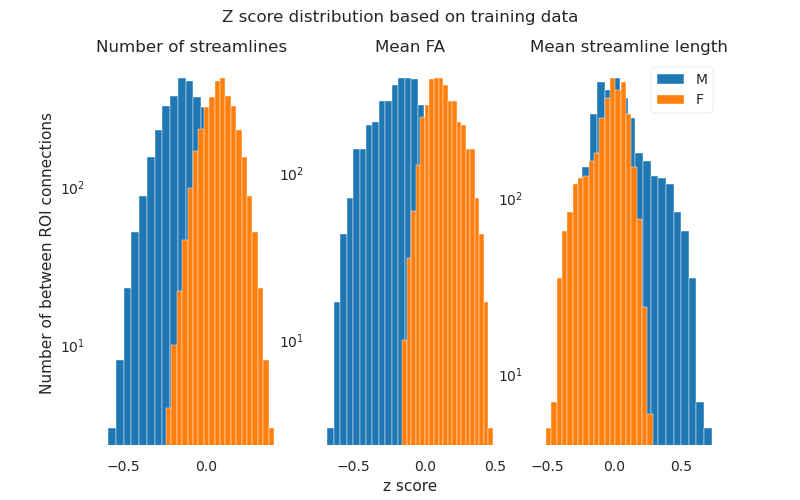
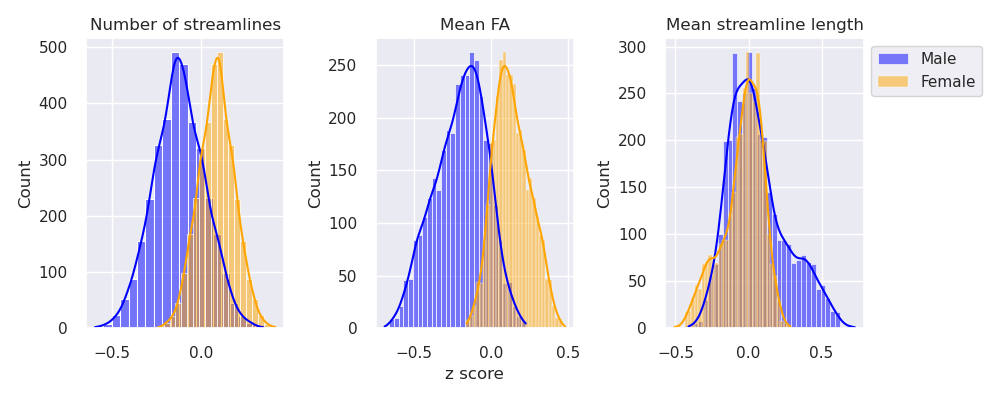
better visualization and improvement of results chapter

diff --git a/ms_thesis/Results.tex b/ms_thesis/Results.tex
@@ -2,7 +2,7 @@
 
 \begin{document}
 \chapter{Results}
-In this section, the quantitative and visualization results from the methods presented in the chapter \ref{chap:methods} will be presented. The first two sections will present results from preprocessing of the DWI images mentioned in \autoref{sec:connectome_generation} and subsequent connectivity matrices. The next sections will set to statistically describe the nature of the data as well as classification results based on the comprehensive classification parameters explained in \autoref{tab:classify_combo}.
+In this section, the quantitative and visualization results from the methods presented in the chapter \ref{chap:methods} will be presented. The first two sections will present results from preprocessing of the DWI images mentioned in \autoref{sec:Diffusionimgprepro} and extraction of connectivity matrices. The next sections will statistically describe the nature of the data as well as classification results based on the comprehensive classification parameters explained in \autoref{tab:classify_combo}.
 
 \section{Preprocessing Visualization}
 \begin{figure}
@@ -10,50 +10,61 @@ In this section, the quantitative and visualization results from the methods pre
     \includegraphics[width=\textwidth]{images/Preprocessing_pipeline.png}
     %\includegraphics[width=\textwidth]{images/connectome_creation_workflow.png}
     %\cite{gerhard2011connectome}
-    \caption{Visualization of pipeline used to create a connectome for each subject (a) Five tissue segmented image visualized in grayscale. (b) A slice of a 4D image mapped in 3D using RGB encoding tissue densities, CSF as red, GM as green and WM as blue. (c) Fiber tractography of one million fibers produced using probabilistic tractography overlaid on an axial slice of the brain. (d) The nodes of the connectome representing ROIs overlaid on an axial slice}
+    \caption{Visualization of pipeline used to create a connectome for each subject (a) Five tissue segmented image visualized in grayscale. (b) A slice of a 4D image mapped in 3D using RGB encoding tissue densities, CSF as red, GM as green and WM as blue. (c) Anatomically constrained tractography (ACT) of one million fibers overlaid on an axial slice of the brain. (d) The nodes of the connectome representing ROIs overlaid on an axial slice}
     \label{fig:preproc}
 \end{figure}
 
-During the process of generating the connectome (\autoref{subsec:connectomegeneration}) visual inspection was required to understand and investigate the properties of different types of images produced. The following results were obtained and anlayzed for adherence to conceptual the framework in \autoref{sec:creating_connectome}. 
+During the process of generating the connectome (\autoref{subsec:connectomegeneration}) visual inspection was required to investigate the properties of different types of images produced. The results illustrated in \autoref{fig:preproc} used to evaluate the adherence of the implementation to the conceptual framework mentioned \autoref{sec:creating_connectome}. 
 
-The 5TT image obtained was 4D and could not be easily displayed in 3D. In \autoref{fig:preproc}.a the 4D image is displayed according to the grayscale mapping in 3D. It was observed that the 5TT images did not contain any errorneous labels. In this 4D image, each volume represents the corresponding tissue densities of WM, GM and CSF. The 4D image is then visualized as an RGB image with each volume getting its specific color (\autoref{fig:preproc}.b). With the help of the RGB image the alignment of the fODFs seemed plausible on zooming.
+The 5TT image obtained after tissue segmentation (\autoref{subsec:struct_diff}) was 4D and could not be easily displayed in 3D. In \autoref{fig:preproc}.a, this 4D image is displayed according to gray-scale mapping in 3D. With the grayscale mapping it was viusally observed that the 5TT images did not contain any erroneous labels. The original 4D image contained three volumes with each one representing the corresponding tissue densities of WM, GM and CSF. In \autoref{fig:preproc}.b. the 5TT 4D image is visualized as an RGB image with each volume getting its specific color, i.e. WM as blue, GM as green and CSF as red. In interactive window from \textbf{\textit{mrview}} (\cite{tournier2019mrtrix3}) the RGB image can be zoomed in an checked for compliance of the response functions with the fODFs and tissue segmentations. 
 
-Further, the one million fibers tractography was obtained with correspondence to the color coding of the fibers that run along the x,y and z axes respectively. The nodes of the connectome were then represented by the center of mass in the parcellated regions, the intensity of the image does not represent signal intensity but different parcels. 
+After obtaining information about the tissue segmentations and fODFs, one million fibers whole brain tractography was generated (\autoref{fig:preproc}.c). In this tractogram, the red fibers run in right to left direction, green between anterior-posterior and blue in head-to-foot direction (\cite{obert2013evaluation}). Finally, the connectome could be visualized (\autoref{fig:preproc}.d) with the nodes representing the center of mass of grey matter regions and edges as the connections between them. The intensity of this image is not equal to the signal intensity but the number assigned to the ROI, so any parcellated region that has a higher numbering in the lookup table is shown brighter. However, the diagram still remains informative. 
 
+Overall, visualizing the preprocessing pipeline helped to evaluate the anatomical correspondence of the tractography. It also helps understand the relationship between the generated connectome and white matter connectivity.
 
 \section{Connectome Visualization}
-\label{sec:connectome_generation}
+
 \begin{figure}
     \centering
     %\includegraphics[width=\textwidth]{images/brain-data-viewer_2.png}
-    \includegraphics[width=\textwidth]{images/bokeh_plot_allsubjects.png}
-    \caption{A chord plot representing the group averaged connectome for all subjects. The number of arcs (edges) represent the number of streamlines between any two ROIS. The ROIs are represented as the nodes in the diagram at the end of the circle. They are labelled according to the Desikan Killiany Atlas. The presence of multiple arcs get bundled together and increased multiple arcs are represented by one arc with higher thickness. In this interactive visualization, the cortical region isthmus cingulate is selected as the source node and the all the edges convergent on this node are colored according to the terminal node.}
+    %\includegraphics[width=\textwidth]{images/bokeh_plot_allsubjects.png}
+    \includegraphics[width=\textwidth]{images/selected_view_all.png}
+    \caption{A chord plot representing the group averaged connectome for all subjects. The number of arcs (edges) represent the number of streamlines between any two ROIS. The ROIs are represented as the nodes in the diagram at the end of the circle. The presence of multiple arcs get bundled together and increased multiple arcs are represented by one arc with higher thickness. The middle frontal gyrus in the left hemisphere is selected as the source node and the all the edges convergent on this node are colored according to the terminal node.}
     \label{fig:connectome_num_streamlines}
 \end{figure}
 
-In the chord plot represented in \autoref{fig:connectome_num_streamlines} the cortical region isthmus cingulate in the right hemisphere is selected. Its has prominent connections to the cortical regions inferior parietal, superior frontal, superior temporal in the left hemisphere. It is also connected to the subcortical regions Hippocampus, Putamen and thalamus proper in the right hemisphere. A set of weak connections to the cortical region fusiform is also well represented by this diagram. This interactive visualization helped determine the connections between brain regions. 
+After the connectivity matrices for all subjects were generated using methods in \autoref{sec:creating_connectome}, the group averaged connectome was created. The raw connectivity matrix was dense, containing $n = 84$ nodes and $n_e = 3486$ edges. The edge weights were widely distributed for the different types of features. Visualizing the connectome as a simple connectivity matrix or a heatmap was hence not an effective strategy.
 
+A chord plot was chosen because of the organization and structure, ease of representing grey matter nodes. The number of streamlines served as a suitable connectivity metric to be encoded into a chord plot, the reason for the selection of the number of streamlines will be presented in \autoref{subsec:connmetric}. The detailed coloring scheme used for creating the chord plot gives added visual cues about the source and the target nodes.
+
+In the chord plot represented in \autoref{fig:connectome_num_streamlines} $n=65$ nodes are shown. The graph is obtained by thresholding the group averaged number of streamlines between any two ROIs. The threshold was selected to be $N=900$ and the value for thickness of the arc was deciding by dividing the preserved number of streamlines by a factor of 10. For interactive visualization, the cortical region caudal middle frontal in the left hemisphere is selected. Its has prominent connections to the cortical regions superior frontal, rostra middle frontal and precuneus in the left hemisphere. Weak connection to the cortical region parsopercularis is also well represented by this diagram. 
+
+Overall, this comprehensive diagram is a systematic representation of whole brain connectivity. It can be used to analyze brain connections at the subject level or the group level.
 
 \section{Feature Analysis}
-From the preprocessing pipeline presented in \autoref{sec:connectome_generation} there were three types of features obtained for each subject. The number of streamlines, the mean streamline length and the mean FA. Each of these features encodes a different biological property of between ROI connections and could hold different results for the classification. There is no current consensus on which feature qualifies as an effective measure of 'connectivity' between any two nodes (\cite{yeh2020mapping}). Hence, it was required to determine which one of them is actually more interpretable as well as best performing for a generic implementation independent of the target label. Further, exclusion of self loops has also been experimentally justified to not provide any added benefit to classification accuracy. 
+
+Once the connectivity matrices were ready, it was important to investigate an effective connectivity metric and determine importance of within ROI connections. From the preprocessing pipeline presented in \autoref{sec:connectome_generation} there were three types of connectivity metrics obtained for each subject. These were number of streamlines, the mean streamline length and the mean FA. Each of these features encodes a different biological property of between ROI connections and gave different classification results. There is no current consensus on which feature qualifies as an effective measure of connectivity between any two nodes (\cite{yeh2020mapping}). The number of streamlines was selected to be the major focus of the classification tasks due its superiority in classification performance, which will be illustrated subsequently. Further, exclusion of self loops from the connectivity matrices will be experimentally justified. 
+
 \subsection{Differences in connectivity metric}
+\label{subsec:connmetric}
 \begin{figure}
     \centering
     \includegraphics[width=\textwidth]{images/zscoredist.png}
-    \caption{Histograms representing the frequency of mean z scores for different types of features.}
+    \caption{Three overlaid histograms representing the frequency of mean z scores for different types of features. The orange histograms are for females and blue ones are for males.the y axis represents the number of between ROI connections.}
     \label{fig:hist_zscores}
 \end{figure} 
-As mentioned above, it was important to explore different types of connectivity metrics obtained from the connectivity matrices constructed using methodology \autoref{fig:hist_zscores}. The three types of metrics were the mean FA, mean streamline length and number of streamlines. The number of streamlines and the mean streamline length could have contained biases as they were constructed in the individual subject's space and hence comparing these numerical values for any two subjects did not seem a logically intuitive, but due to the informed filtering using the SIFT algorithm, these biases were well corrected for an these measure could be compared (\cite{yeh2020mapping}). 
+As mentioned above, it was important to explore different types of connectivity metrics obtained from the connectivity matrices constructed using methodology \autoref{fig:hist_zscores}. Considering the z score distributions of ROI connections separately for males and females was taken as a method for data evaluation. A histogram for the three different feature or connectivity types could help speculate which one performs better while classifying target variables/ or how well they could separate between the two classes.
 
-A histogram for the three different feature or connectivity types could help speculate which one performs better while classifying target variables.  Using Standard scalar each feature was standardized by removing the mean and scaling it to unit variance. After scaling the feature value for each subject is represented by a z statistic. The mean of the z statistic (of one feature) for all training subjects was then taken to form a histogram on the type of feature. So for each connectivity metric there are 3486 features.
+The histograms were formed using data (containing both males and females) from the training set. Each feature was then standardized by removing the mean and scaling it to unit variance. After scaling the feature value for each subject is represented by a z statistic. The mean of the z statistic (of one feature) is zero for all training subjects. However, the differences are prevalent when separate means are taken for the two genders. For each connection, there was one z score for males and another for females depending on the connectivity metric. For each connectivity metric there are 3486 features which help form the distribution represented in \autoref{fig:hist_zscores}.
 
-The distribution for the number of streamlines for males and females in the training data are both non-overlapping and well-normally distributed. This could contribute towards the good performance of classifiers when training on the basis of number of streamlines. Further on the basis of informed filtering of the fiber tracts, it is plausibe tha t
+From the distributions, it is evident that the number of streamlines is a superior connectivity metric for gender classification. It's histogram is non-overlapping, shows a smooth Gaussian distribution for males and females, and has significantly higher peaks than those for the other two features. From the differences in z-score distribution, it can be inferred that women on an average have more number of streamlines as compared men, for the same connections. This observation is coherent with evidence in  \cite{szalkai2015graph} showing that women have more densely connected brains than men. Further, women have higher white matter to grey matter ratio and hence the number of streamlines detected for women is higher \cite{taki2011correlations}.
 
-The plot for the number of streamlines on the left shows that women have comparatively higher z scores as compared to men. This means that women have on an average more number of streamlines in the same between ROI connection. 
+Using the mean FA plots illustrate that women have higher mean FA values than men. Conversely, an opposite trend is seen in the case of mean streamline length. Women have lower z scores, which points that shorter streamline lengths. There are yet no conclusive results for benchmarking such a distribution as gender differences prevail depending on ROIs being considered (\cite{kanaan2012gender}).For the mean FA, it is difficult to conclude that female brains have higher FA values when considering whole brain connectivity existing studies do not provide conclusive results (\cite{ingalhalikar2014sex}). The shorter streamline lengths in women seem plausible since, on an average women's brains are smaller than that of men (\cite{ankney1992sex}).
 
-The Mean FA feature for women is also showing higher Z score which means that women have higher mean FA as compared to the average when considering a mixture of males and females as the training set. 
+The results for the number of streamlines and the mean streamline length are coherent with \textit{a priori} knowledge and evidence in literature. These features could have contained biases as the tractography was carried out in individual subject's space. Comparing the streamline count or length for different subjects was possible due to the informed filtering using the SIFT algorithm (\cite{yeh2020mapping}).
 
-On the other hand, an opposite trend is seen in the case of mean streamline length. Women have lower z scores as compared to men, this means that they have shorter streamline lengths. Which seems plausible because generally the size of the brain in women is smaller. 
+The experiments stated above help establish the effectiveness of streamline count as a connectivity metric. It can well discriminate between gender and gives a biologically coherent
+measure of brain connectivity.
 
 \subsection{Self loops}
 \label{res:selfloops}
@@ -121,7 +132,7 @@ In Fig. \ref{fig:gender_num_strls_10} the MEWS solver based implementation reduc
 
 For the features determined by the subgraph. The reduced features were put through an independent samples t-test for gender differences. 
 
-\iffalse
+
 \begin{table}
 \label{table:10strls_gender}
 \csvreader[
@@ -132,7 +143,7 @@ For the features determined by the subgraph. The reduced features were put throu
 {\csvcoli & \csvcolii & \csvcoliii & \csvcoliv }
 \caption{Results for an independent samples t-test carried, The corresponding p values are for the different number of streamlines for males and femalestvod .}
 \end{table}
-\fi
+
 
 
 \iffalse

diff --git a/ms_thesis/Conclusion.tex b/ms_thesis/Conclusion.tex
@@ -2,8 +2,22 @@
 
 \begin{document}
 \chapter{Conclusion}
+\iffalse
 Interpretability-accuracy tradeoff. 
 With the solver - 42 features (10 nodes)
 with the baseline - much more number of nodes for the same features.
+\fi
+Analyzing the properties of structural brain networks is a challenging task. Especially classification based on a dense graph derived from brain connectivity requires a well studied scientific methodology. Three major characteristics of the pipeline implemented in this work make it apt for usage in clinical as well as behavioral research. These aspects are the consideration of graph topology, visualization at each step and a generalized approach. 
+
+First, the graph topology incorporated using the MEWS technique provides more interpretable and easily visualizable results. With this framework, it enables effective classifier training and statistical analysis. The structure of the output subgraph can be controlled with the number of nodes to be preserved, the type of ranking or the type of connectivity measure to use. Specially, the number of nodes to be preserved was implemented by me can be used to rank node importance additional to feature importance. Number of edges can also be controlled indirectly with the number of nodes. This makes it a better alternative to the state of the art filter based methods used in Neuroimaging studies. 
+
+Second, all the steps right from the preprocessing of the connectome to the features selected for model training had a visual analog. Detailed visualizations that help evaluate biological correspondence of the data preparation/selection. This type of visualization can help evaluate significant biases/errors that come into picture while making an \textit{in-silico} model of brain connectivity. DTI images are of anatomical correspondence and any features which are derived on their basis need to be evaluated visually for neurobiological correspondence. 
+
+Third, the pipeline can be implemented for any type of target variable. Be it a categorical/binary variable such as gender or a continuous variable such as a personality trait. One important thing to note is that special consideration was given to remove the effects of information loss for categorical variables. Linear coefficient was used to account for the linear relationship between a particular feature and the continuous variable. For a binary variable group based differences were evaluated by clubbing subjects in different groups. 
+
+Overall, the method is novel but is not comprehensive on addressing all the challenges that come in the way of modelling structural brain connectivity. It also gives a controllable trade-off between model performance and interpretability. The pipeline could further be improved by encoding more \textit{a priori} knowledge from neurobiology and consideration of a larger dataset, using different modalities and seeing if the features selected by the diffusion matrices correspond to the features selection by using functional connectivity matrics formed using fMRI data.
+
+It is a good stepping stone on trying to model the brain and guide clinical decisions. It achieves good performance on gender classification could be used to guide decision making in alzheimer's which is more common in females than in males.
+
 \end{document}
 

diff --git a/ms_thesis/Methods.tex b/ms_thesis/Methods.tex
@@ -201,7 +201,7 @@ After obtaining the 5TT images, the segmentation from the original FreeSurfer fo
 \fi
 
 \subsection{Diffusion Image Processing}
-
+\label{sec:Diffusionimgprepro}
 The first step of processing the diffusion images is to determine the fODF for probabilistic tractography. The fODFs were reconstructed using multi-shell, multi-tissue constrained spherical deconvolution (MSMT-CSD) based on the algorithm in \cite{jeurissen2014multi}. As mentioned in  \autoref{sec:highermodels} the CSD of response functions can determine the fODF distribution. Hence, CSD of the separate response functions from WM, GM and CSF was done in order to obtain the DWI signals of the three tissue types from the 5TT image.
 
 The probabilistic whole-brain tractography of five-million fiber tracts was generated using \textbf{\textit{Mrtrix3}}. The streamlines were computed on the basis of the algorithm iFOD2 (\cite{tournier2010improved}). This algorithm uses the fiber orientation Distribution (fODF) image and determines candidate streamline paths (arcs), which have greater fODF amplitudes along the paths. By sampling the underlying fODF amplitudes along these arcs , it makes the streamlines likely to follow most probable paths.
@@ -219,7 +219,7 @@ The tractography was then downsampled from five mullion fibers to one million fi
 \fi
 \subsection{Connectome Generation}
 \label{subsec:connectomegeneration}
-The connectome can be represented in the form of a graph as mentioned in \autoref{sec:connectomics}. After obtaining the streamline file and a parcellation image representing the subject specific node locations of the connectome, the connectome matrix was obtained in a .csv format. It was generated from the whole brain tractography of one million tracts using 84 relevant grey matter parcellations (in \textit{\textbf{Mrtrix3}}) from the default FreeSurfer segementation specified by the Desikan Killiany Atlas. 
+The connectome can be represented in the form of a graph as mentioned in \autoref{sec:connectomics}. After obtaining the streamline file and a parcellation image representing the subject specific node locations of the connectome, the connectome matrix was obtained in a \textit{.csv} format. It was generated from the whole brain tractography of one million tracts using 84 relevant grey matter parcellations (in \textit{\textbf{Mrtrix3}}) from the default FreeSurfer segementation specified by the Desikan Killiany Atlas. 
 
 Using different parameter settings three types of features were extracted. The mean fractional anisotropy of the streamlines that connect the two regions (or mean FA, equation \autoref{eq:meanFA}). The average length of streamlines connecting two regions and number of streamlines between any two regions. The visualization can be seen in the \autoref{fig:connectivity_matrix}. The connectome is represented as an upper triangular matrix($84 x 84$) considering that the connections between two ROIs are symmetric.
 

diff --git a/ms_thesis/Abstract.tex b/ms_thesis/Abstract.tex
@@ -4,6 +4,6 @@
 \chapter{Abstract}
 \thispagestyle{empty}
 
-Advances in non-invasive Neuroimaging modalities have led to a growing interest in investigating the underpinnings of human cognition and neurological disorders. Analysis of human brain connectivity or the human connectome has hence become an active area of research. Computational methods based on graph theory have played a significant role in understanding the topological organisation of brain networks. Simultaneously, machine learning algorithms are now being used in Neuroimaging studies to classify diseased states in patients. In this work, we propose a method to combine the utilities of graph theoretic methods with Machine Learning classifiers in order to obtain discriminative subnetworks in the brain. The novel component of this thesis is to reduce the graphical network derived from structural brain connectivity. Subnetnetworks are obtained by approximating the solution to the Maximum Edge Weight Subgraph (MEWS) problem that falls into the class of NP-hard problems. This feature selection technique makes the classification results more interpretable as compared to traditional filter based methods. The experimental results from our analysis show that MEWS subgraphs can achieve 95\% area under ROC curve for gender classification. Furthermore, it is a generalized method which is independent of the classification task and hence can be useful for discovery of disease biomarkers.
+Advances in non-invasive Neuroimaging modalities have led to a growing interest in investigating the underpinnings of human cognition and neurological disorders. Analysis of human brain connectivity or the human connectome has hence become an active area of research. Computational methods based on graph theory have played a significant role in understanding the topological organisation of brain networks. Simultaneously, machine learning algorithms are now being used in Neuroimaging studies to classify diseased states in patients. In this work, we propose a method to combine the utilities of graph theoretic methods with Machine Learning classifiers in order to obtain discriminative subnetworks in the brain. The novel component of this thesis is to reduce the graphical network derived from structural brain connectivity. Subnetworks are obtained by approximating the solution to the Maximum Edge Weight Subgraph (MEWS) problem that falls into the class of NP-hard problems. This feature selection technique makes the classification results more interpretable as compared to traditional filter based methods. The experimental results from our analysis show that MEWS subgraphs can achieve 95\% area under ROC curve for gender classification. Furthermore, it is a generalized method which is independent of the classification task and hence can be useful for discovery of disease biomarkers.
 
 \end{document}
